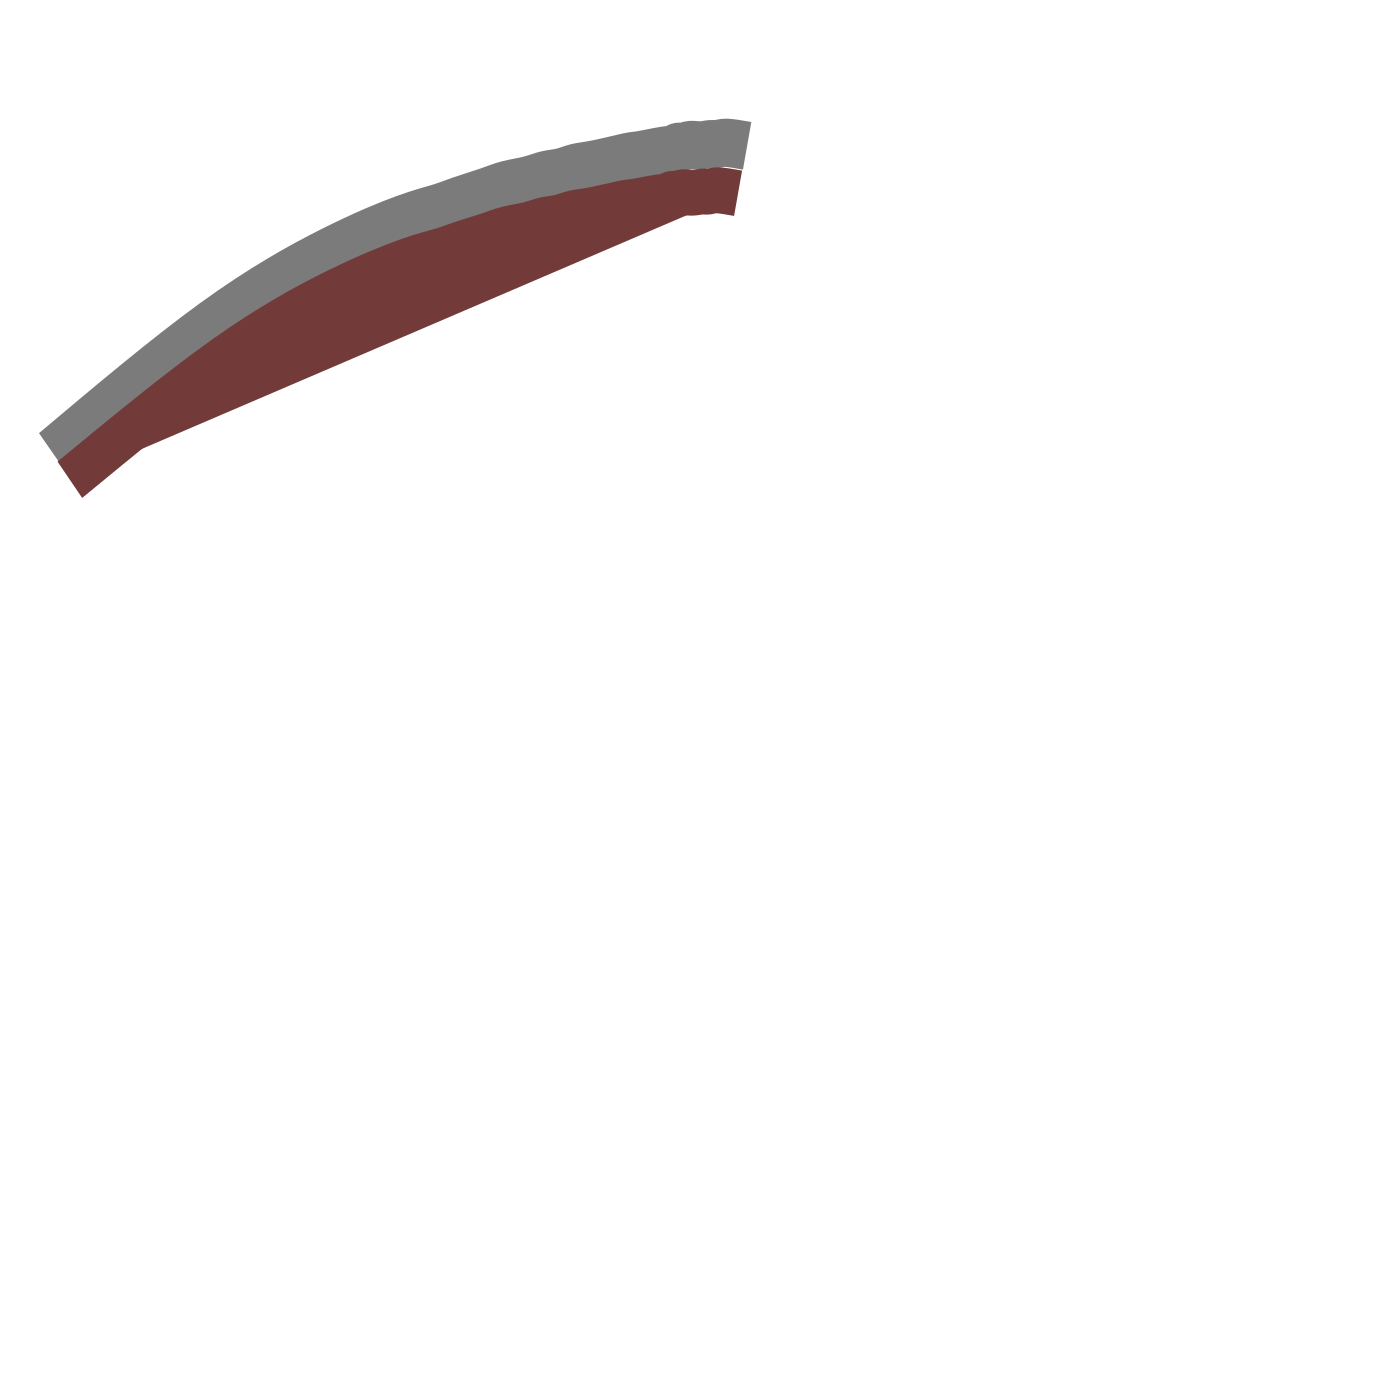
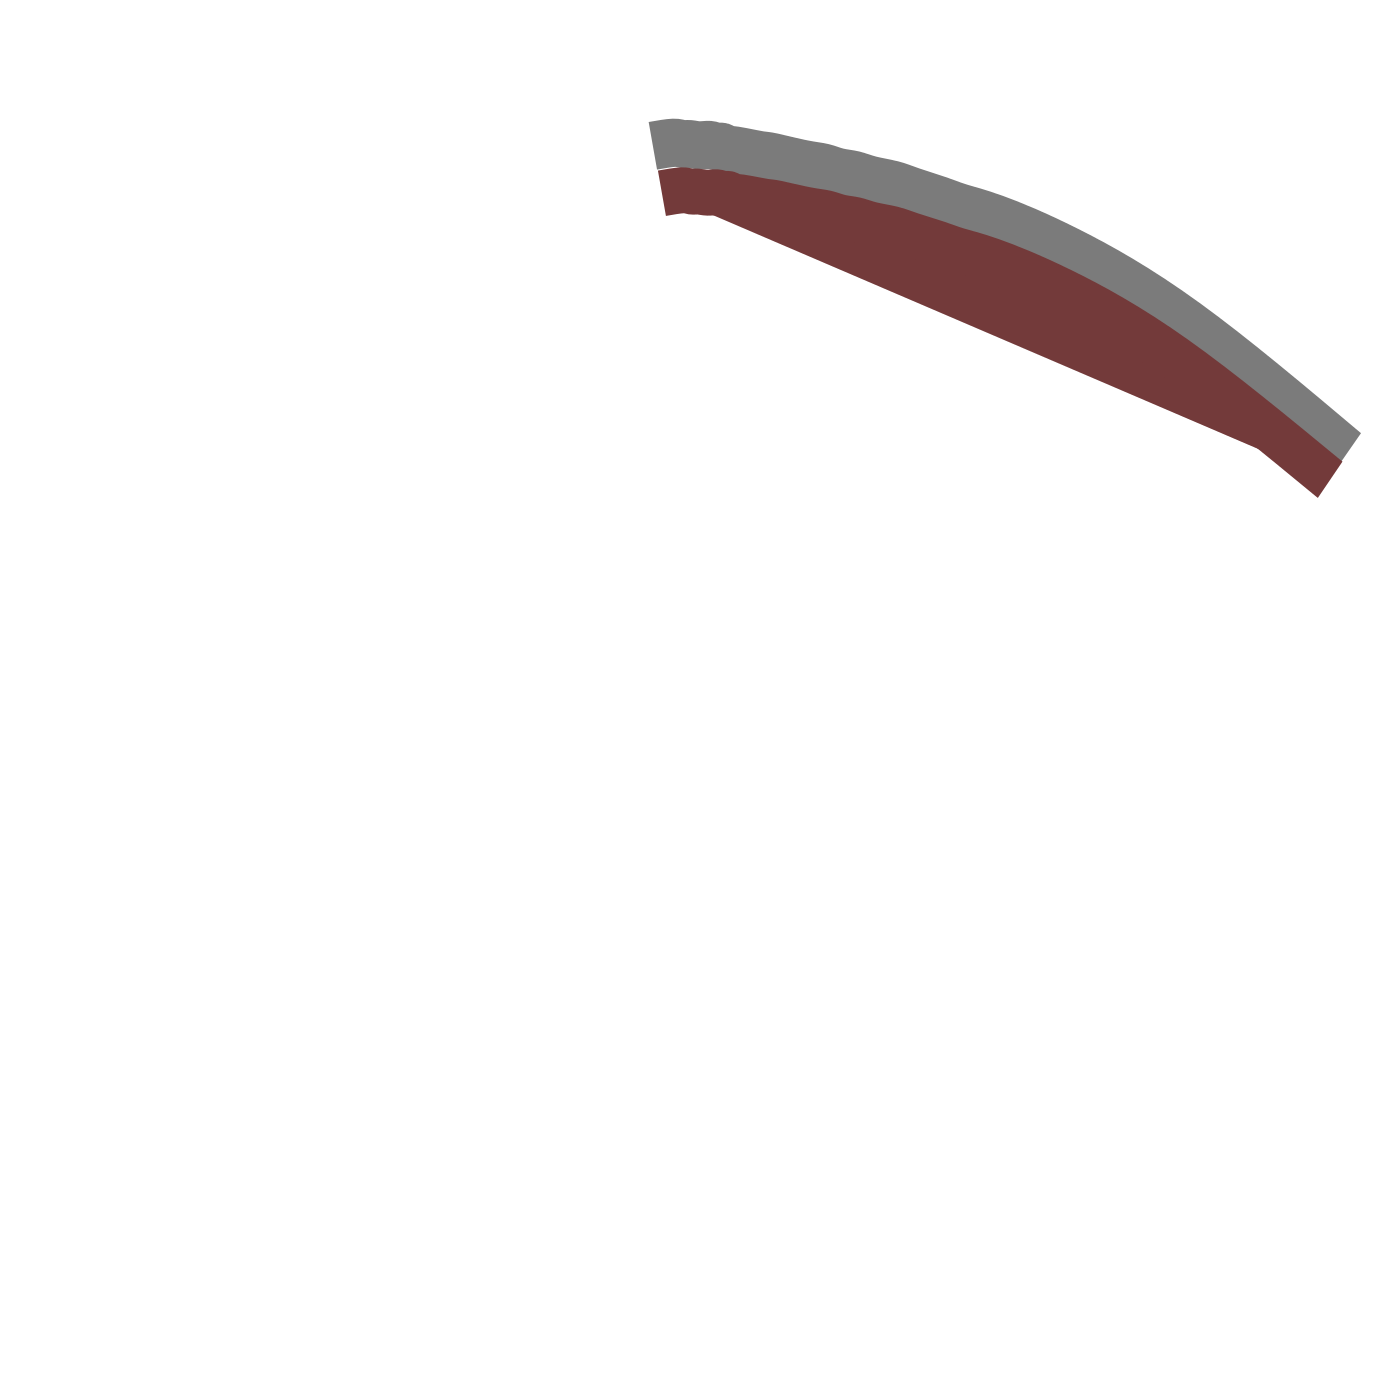
Implemented accurate displaying of two weapons, that is not in the same hand

Changed region(s): [[0.0307, 0.0614, 0.4914, 0.3686], [0.5221, 0.0921, 0.9829, 0.3686]]

diff --git a/Pawn.cpp b/Pawn.cpp
@@ -163,9 +163,9 @@ void Pawn::setPosition(float inx, float iny) {
     combinedSprite->setPosition(finalPos.x, finalPos.y);
 }
 
-void Pawn::setScale(float ins) {
+void Pawn::scale(float ins) {
     this->scaleFactor = ins;
-    combinedSprite->setScale(scaleFactor, scaleFactor);
+    combinedSprite->scale(scaleFactor, scaleFactor);
 }
 
 void Pawn::setHexCoords(std::tuple<int, int, int> coords)
@@ -188,6 +188,10 @@ bool Pawn::addEquipment(Equipment* item) {
         {
             if (item->getSpaceOccupied().numSpaces <= remainingSpace.hands)
             {
+                if (remainingSpace.hands < space.hands)
+                {
+                    flipSprite(item);
+                }
                 equipment.push_back(item);
                 remainingSpace.hands -= item->getSpaceOccupied().numSpaces;
                 createSprite();
@@ -439,6 +443,17 @@ Equipment* Pawn::findArmour(const std::string& type)
         }
     }
     throw std::runtime_error("Now such armour");
+}
+
+void Pawn::flipSprite(Equipment* item)
+{
+    sf::Sprite sprite = spriteMap[item->getName()];
+    sf::Sprite flippedSprite(sprite);
+    sf::IntRect textureRect = sprite.getTextureRect();
+    textureRect.left += textureRect.width;
+    textureRect.width = -textureRect.width;
+    flippedSprite.setTextureRect(textureRect);
+    spriteMap[item->getName()] = flippedSprite;
 }
 
 const std::map<std::string, int> Pawn::order = {

diff --git a/Pawn.h b/Pawn.h
@@ -42,7 +42,7 @@ public:
     void setHP(int healthPoints);
     void setRotationAngle(float angle);
     void setPosition(float inx, float iny);
-    void setScale(float ins);
+    void scale(float ins);
     void setHexCoords(std::tuple<int, int, int> coords);
     void addSpace(int hands, int extras);
 
@@ -72,6 +72,7 @@ private:
     std::vector<bool> whatArmour();
     Equipment* findArmour(const std::string& type);
     void useArmour(const std::string& type, std::vector<bool>& armours, int value);
+    void flipSprite(Equipment* item);
 
     std::string name;
     int teamNumber;

diff --git a/GUI.cpp b/GUI.cpp
@@ -17,7 +17,7 @@ Gui::Gui(const int screenWidth, const int screenHeight)
     e5 = new Equipment("bow", { 4,7 }, { 2, "hands" }, 1, 2, "Weapon", 5, "Ranged 2");
     e6 = new Equipment("crossbow", { 4,6 }, { 1, "hands" }, 2, 3, "Weapon", 4, "Ranged 2");
     e7 = new Equipment("dagger", { 0,1 }, { 1, "extras" }, 5, 1, "Weapon", 2, "Single use");
-    e8 = new Equipment("two handed axe", { 0,2 }, { 1, "extras" }, 3, 4, "Weapon", 2, "");
+    e8 = new Equipment("two handed axe", { 0,2 }, { 2, "hands" }, 3, 4, "Weapon", 2, "");
 }
 
 Gui::~Gui()
